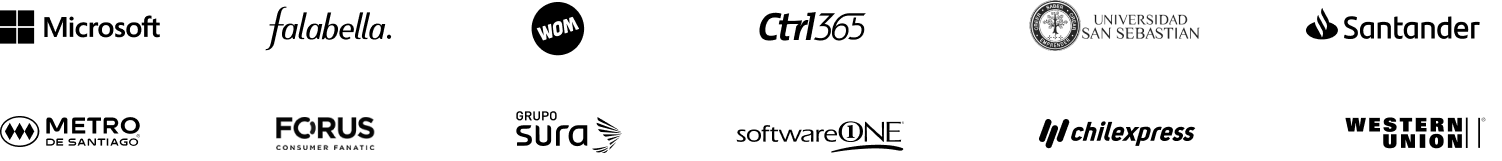
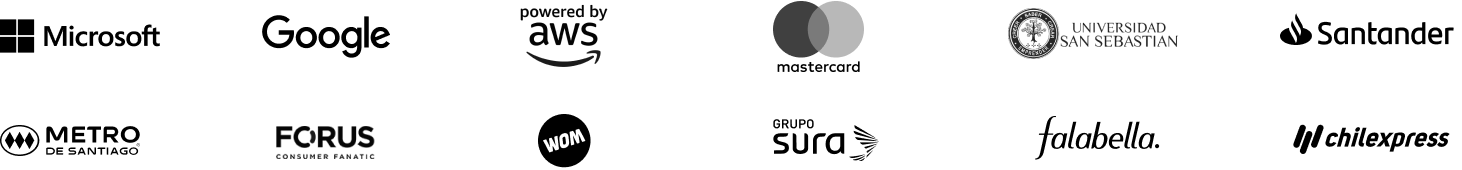
added scroll copyright

diff --git a/app/src/views/home/view.js b/app/src/views/home/view.js
@@ -133,7 +133,6 @@ class View {
 
                 <section id="timeline" class="border content">
     
-
                     ${self.setTimeline(self.data.timeline)}
 
                 </section>
@@ -155,6 +154,7 @@ class View {
                 </section>
 
                 <section id="challenges">
+                    <div class="bg"></div>
 
                     <div class="challenges-list list half border">
                         <p><span>${Star}</span> ${self.data.challenges.title}</p>
@@ -202,7 +202,7 @@ class View {
                     </div>
                     <div id="cast" class="content">
                         <div class="partners">
-                                <h6> <b>Partners</b> </h6>
+                                <h6> <b>Partners & Friends</b> </h6>
                                 <div class="partners-container">
                                     ${self.setPartners(self.data.cast.partners)}
                                 </div>
@@ -219,21 +219,21 @@ class View {
                         </div>
                         
                         <div class="my-companies">
-                            <h6><b>My Companies</b></h6>
+                            <h6><b>My bridge to the binary world</b></h6>
                             <div class="container">                            
                                     <img src="common/media/img/019.png" alt="">    
                             </div>   
                         </div>
 
                         <div class="collaborations">
-                            <h6><b>Collaborations and Consultant</b></h6>
+                            <h6><b>Collaborations & Alliances</b></h6>
                             <div class="container">                            
                                 <a target="_blank" href="https://www.linkedin.com/company/tempus-asset-management/"><h5>Colegio de Ingenieros de Chile</h5></a><h4>and</h4> <a target="_blank" href="https://www.linkedin.com/company/corfo/"><h5>Alianza Chilena de Ciberseguridad</h5></a>
                             </div>   
                         </div>
 
                         <div class="investors">
-                            <h6><b>Investors</b></h6>
+                            <h6><b>Private and Public Inverstors</b></h6>
                             <div class="container">                            
                                 <a target="_blank" href="https://www.linkedin.com/company/tempus-asset-management/"><h5>Tempus Asset Management</h5></a><h4>and</h4> <a target="_blank" href="https://www.linkedin.com/company/corfo/"><h5>Corfo</h5></a>
                             </div>   
@@ -281,25 +281,38 @@ class View {
         tl.fromTo(main.querySelector('#interests'),{yPercent:100},{yPercent:-100,duration:50},'-=80');
         tl.fromTo(main.querySelector('#interests').querySelector('img'),{scale:1},{scale:1.5,duration:25},'-=62');
       //  tl.addLabel("interests","-=65.35");
-       // tl.fromTo(main.querySelector('#timeline').querySelector('.bg'),{yPercent:100},{yPercent:0,duration:25},'-=65');
-        tl.fromTo(main.querySelector('#timeline').querySelectorAll('.timeline-item')[0],{yPercent:400},{yPercent:-100,duration:90},'-=75');
+
+
+       tl.fromTo(main.querySelector('#timeline').querySelectorAll('.timeline-item')[0],{yPercent:400},{yPercent:-140,duration:90},'-=70');
         tl.fromTo(main.querySelector('#timeline').querySelectorAll('.timeline-item')[1],{yPercent:200},{yPercent:-100,duration:90},'-=75');
         tl.fromTo(main.querySelector('#timeline').querySelectorAll('.timeline-item')[2],{yPercent:400},{yPercent:-500,duration:90},'-=55');
         tl.fromTo(main.querySelector('#timeline').querySelectorAll('.timeline-item')[3],{yPercent:200},{yPercent:-300,duration:100},'-=85');
         tl.fromTo(main.querySelector('#timeline').querySelectorAll('.timeline-item')[4],{yPercent:300},{yPercent:-900,duration:100},'-=80');
-        tl.fromTo(main.querySelector('#timeline').querySelectorAll('.timeline-item')[5],{yPercent:1000},{yPercent:-1300,duration:90},'-=103');
-
-        tl.fromTo(main.querySelector('#today').querySelector('.bg'),{yPercent:0},{yPercent:-100,duration:15},'-=85');
-        tl.fromTo(main.querySelector('#today').querySelector('.today-intro'),{yPercent:0},{yPercent:-1650,duration:90},'-=84');
-        tl.fromTo(main.querySelector('#today').querySelector('.today-cards'),{yPercent:0},{yPercent:-350,duration:120},'-=93');
-
-        tl.fromTo(main.querySelector('#challenges'),{yPercent:100},{yPercent:-100,duration:50},'-=85');
-        tl.fromTo(main.querySelector('#challenges').querySelector('img'),{scale:1},{scale:1.5,duration:25},'-=70');
+        tl.fromTo(main.querySelector('#timeline').querySelectorAll('.timeline-item')[5],{yPercent:1200},{yPercent:-1400,duration:70},'-=100');
+        tl.fromTo(main.querySelector('#today'),{yPercent:0},{yPercent:-350,duration:150},'-=85');
 
 
 
+        tl.fromTo(main.querySelector('#challenges'),{yPercent:100},{yPercent:-100,duration:50},'-=135');
+        tl.fromTo(main.querySelector('#challenges').querySelector('img'),{scale:1},{scale:1.5,duration:25},'-=118');
 
 
+       tl.fromTo(main.querySelector('#clients'),{yPercent:0},{yPercent:-400,duration:135},'-=112');
+       tl.fromTo(main.querySelector('#press').querySelector('.press-intro'),{yPercent:100},{yPercent:-1000,duration:90},'-=120');
+
+       tl.fromTo(main.querySelector('.press-articles').querySelectorAll('a')[0],{yPercent:100},{yPercent:-1000,duration:200},'-=128');
+       tl.fromTo(main.querySelector('.press-articles').querySelectorAll('a')[1],{yPercent:100},{yPercent:-1000,duration:200},'-=195');
+       tl.fromTo(main.querySelector('.press-articles').querySelectorAll('a')[2],{yPercent:100},{yPercent:-1000,duration:200},'-=205');
+       tl.fromTo(main.querySelector('.press-articles').querySelectorAll('a')[3],{yPercent:100},{yPercent:-1000,duration:210},'-=215');
+
+      tl.fromTo(main.querySelector('#contact'),{yPercent:100},{yPercent:0,duration:250},'-=105');
+
+
+      tl.fromTo(main.querySelector('.partners-container').querySelectorAll('a')[0].querySelector('img'),{yPercent:100},{yPercent:-1000,duration:210},'-=205');
+      tl.fromTo(main.querySelector('.partners-container').querySelectorAll('a')[1].querySelector('img'),{yPercent:100},{yPercent:-1000,duration:210},'-=205');
+      tl.fromTo(main.querySelector('.partners-container').querySelectorAll('a')[2].querySelector('img'),{yPercent:100},{yPercent:-1000,duration:210},'-=215');
+      tl.fromTo(main.querySelector('.partners-container').querySelectorAll('a')[3].querySelector('img'),{yPercent:100},{yPercent:-1000,duration:210},'-=205');
+      tl.fromTo(main.querySelector('.partners-container').querySelectorAll('a')[4].querySelector('img'),{yPercent:100},{yPercent:-1000,duration:210},'-=195');
 
 
         function updateStats() {

diff --git a/app/src/views/home/style.scss b/app/src/views/home/style.scss
@@ -62,7 +62,7 @@
     width: 100%;
     height: auto;
 
-    .bg{
+    .bg {
         background-color: $color02;
     }
 
@@ -161,7 +161,7 @@
 
         position: absolute;
         top: 0;
- 
+
 
         &:last-child {
             .timeline-item_content {
@@ -233,11 +233,13 @@
 
     position: absolute;
     top: 100%;
+    padding-bottom: 100vh;
 
 
 
     .bg {
         background-color: $color01;
+        height: 100%;
     }
 
     .today-intro {
@@ -270,7 +272,7 @@
             background-color: $color02;
             color: $color01;
             position: relative;
-            width: 33vw;
+            width: 29vw;
             margin: 0 1vw;
             display: block;
 
@@ -307,12 +309,17 @@
     color: $color01;
     z-index: 7;
     height: auto;
-    
+
     position: absolute;
     top: 0;
+    .bg {
+        background-color: $color01;
+        height: 100%;
+        top: 100%;
+    }
 
     img {
-        object-position: right;
+        object-position: center;
     }
 
 
@@ -358,6 +365,10 @@
     z-index: 8;
     height: auto;
 
+    position: absolute;
+    top: 100%;
+
+
 
     .bg {
         background-color: $color01;
@@ -374,7 +385,9 @@
         padding-bottom: 27vh;
 
         p {
-            margin-bottom: 10vh;
+            max-width: 45%;
+            margin: 20vh auto;
+            margin-bottom: 15vh;
         }
 
         img {
@@ -469,6 +482,9 @@
     text-align: center;
     z-index: 9;
     height: auto;
+    position: absolute;
+    bottom: 0%;
+    padding-top: 25vh;
 
 
     .contact-info {
@@ -525,7 +541,7 @@
 
                     img {
                         height: auto;
-                        width: 20vw;
+                        width: 15vw;
 
 
                     }
